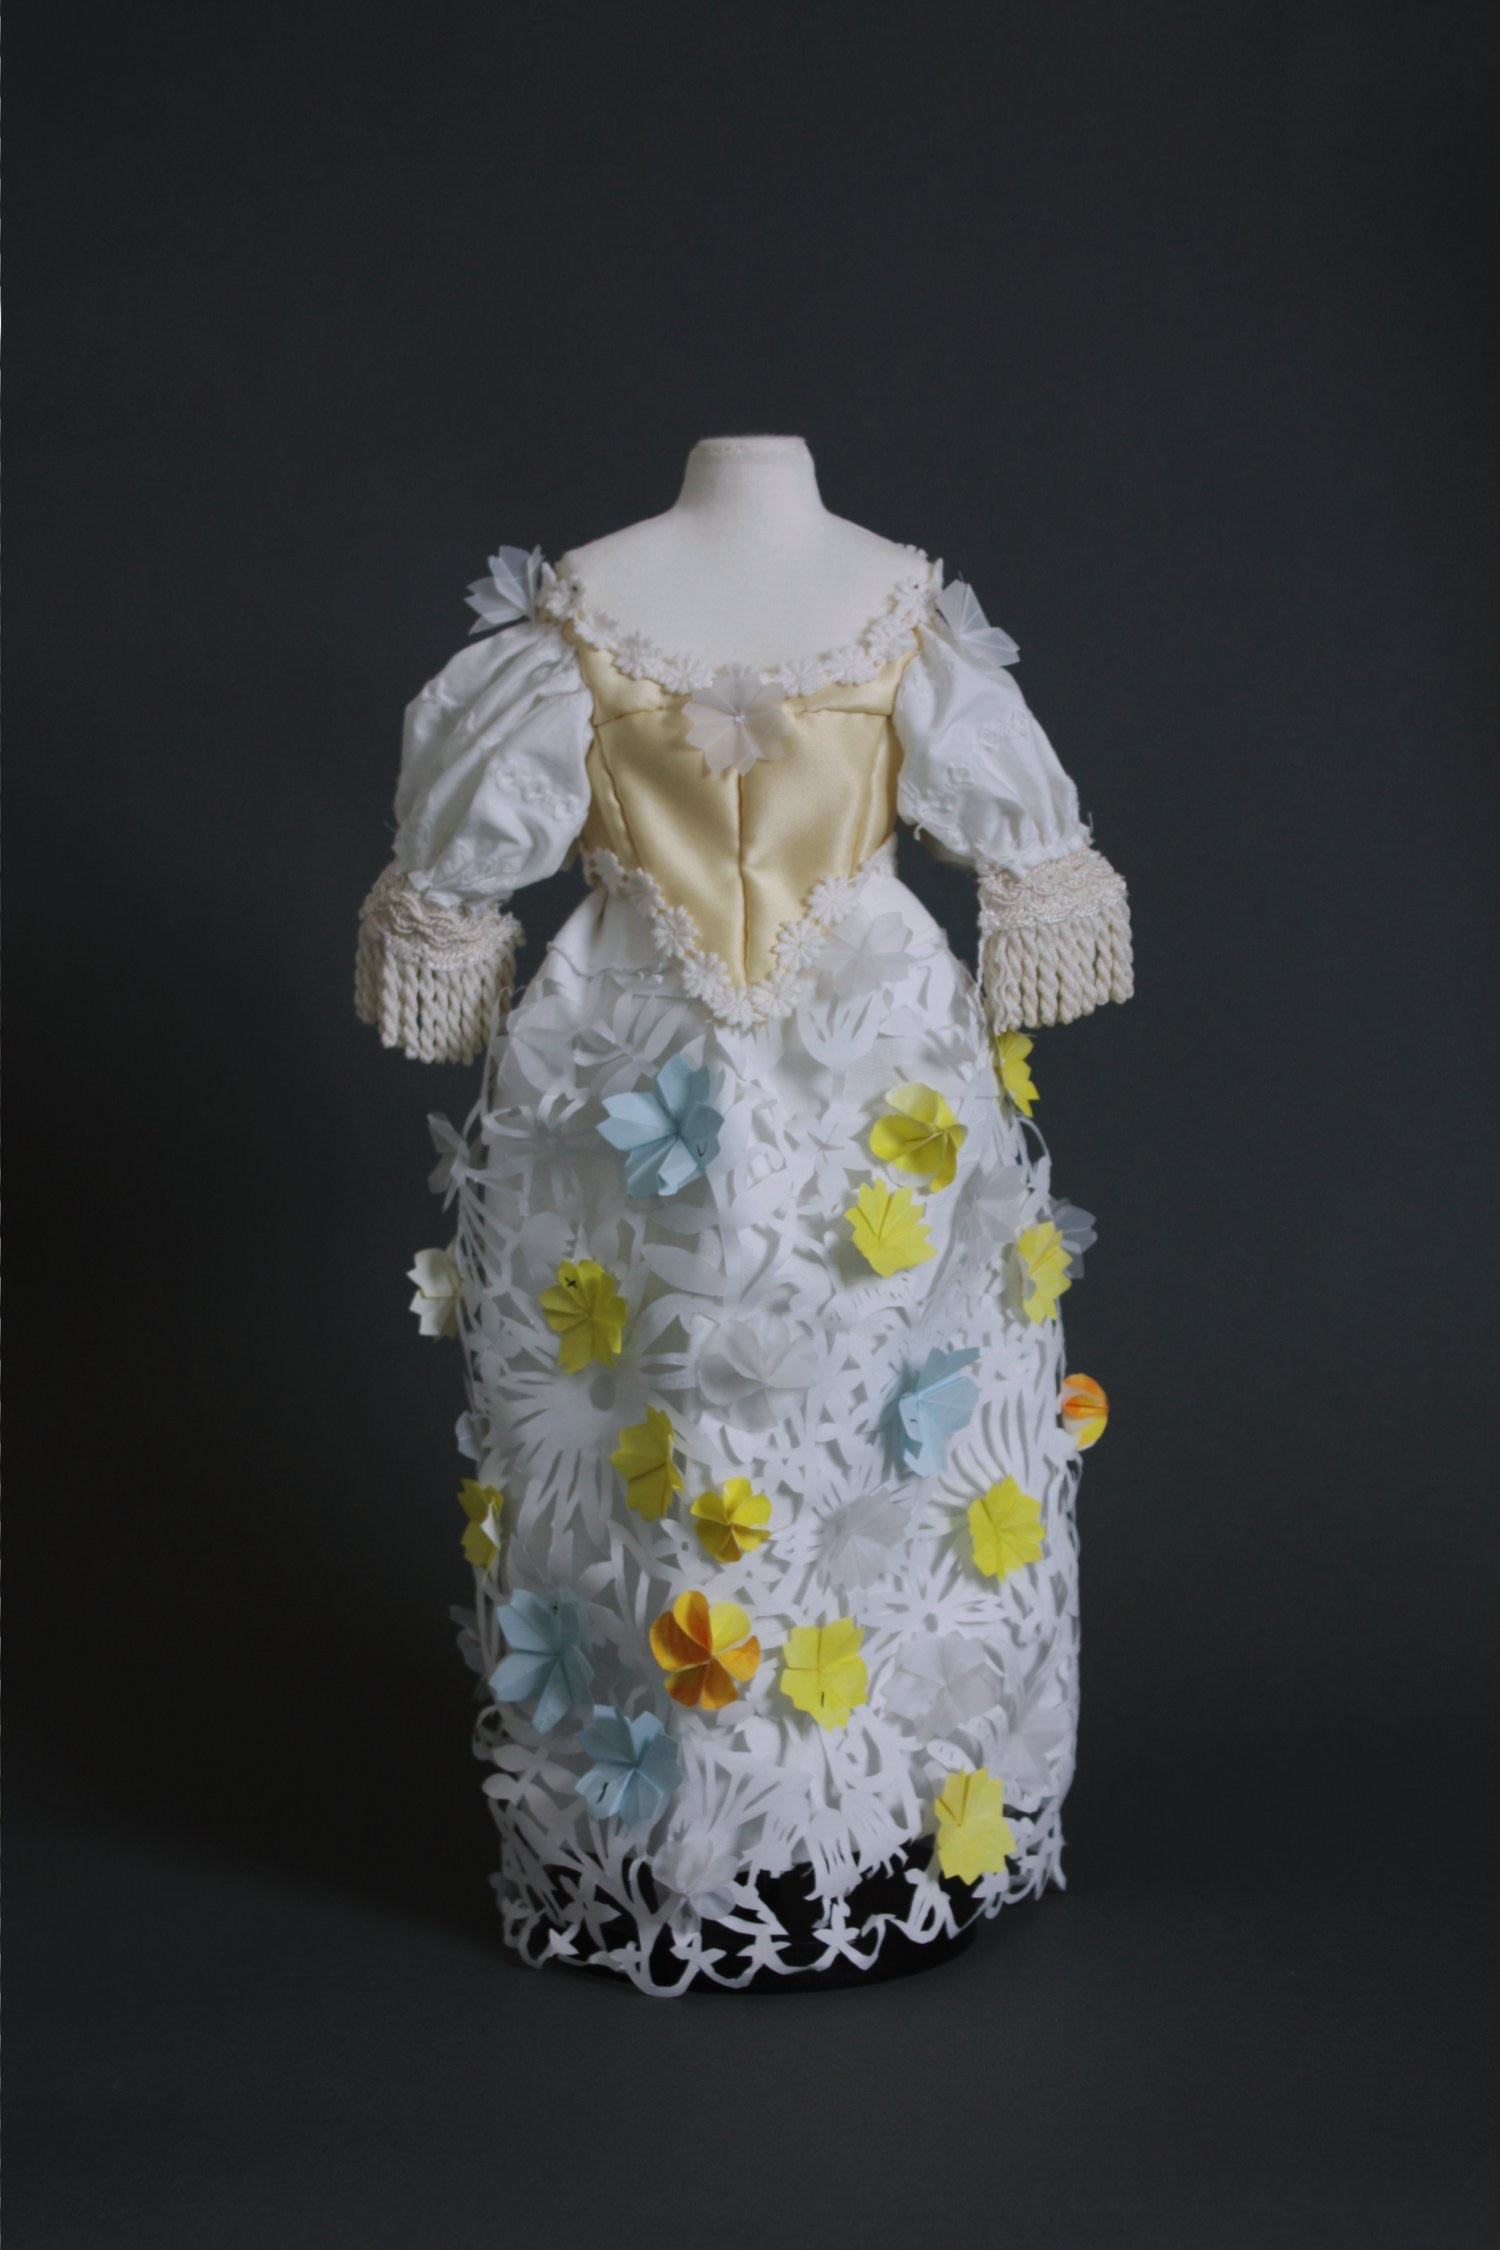
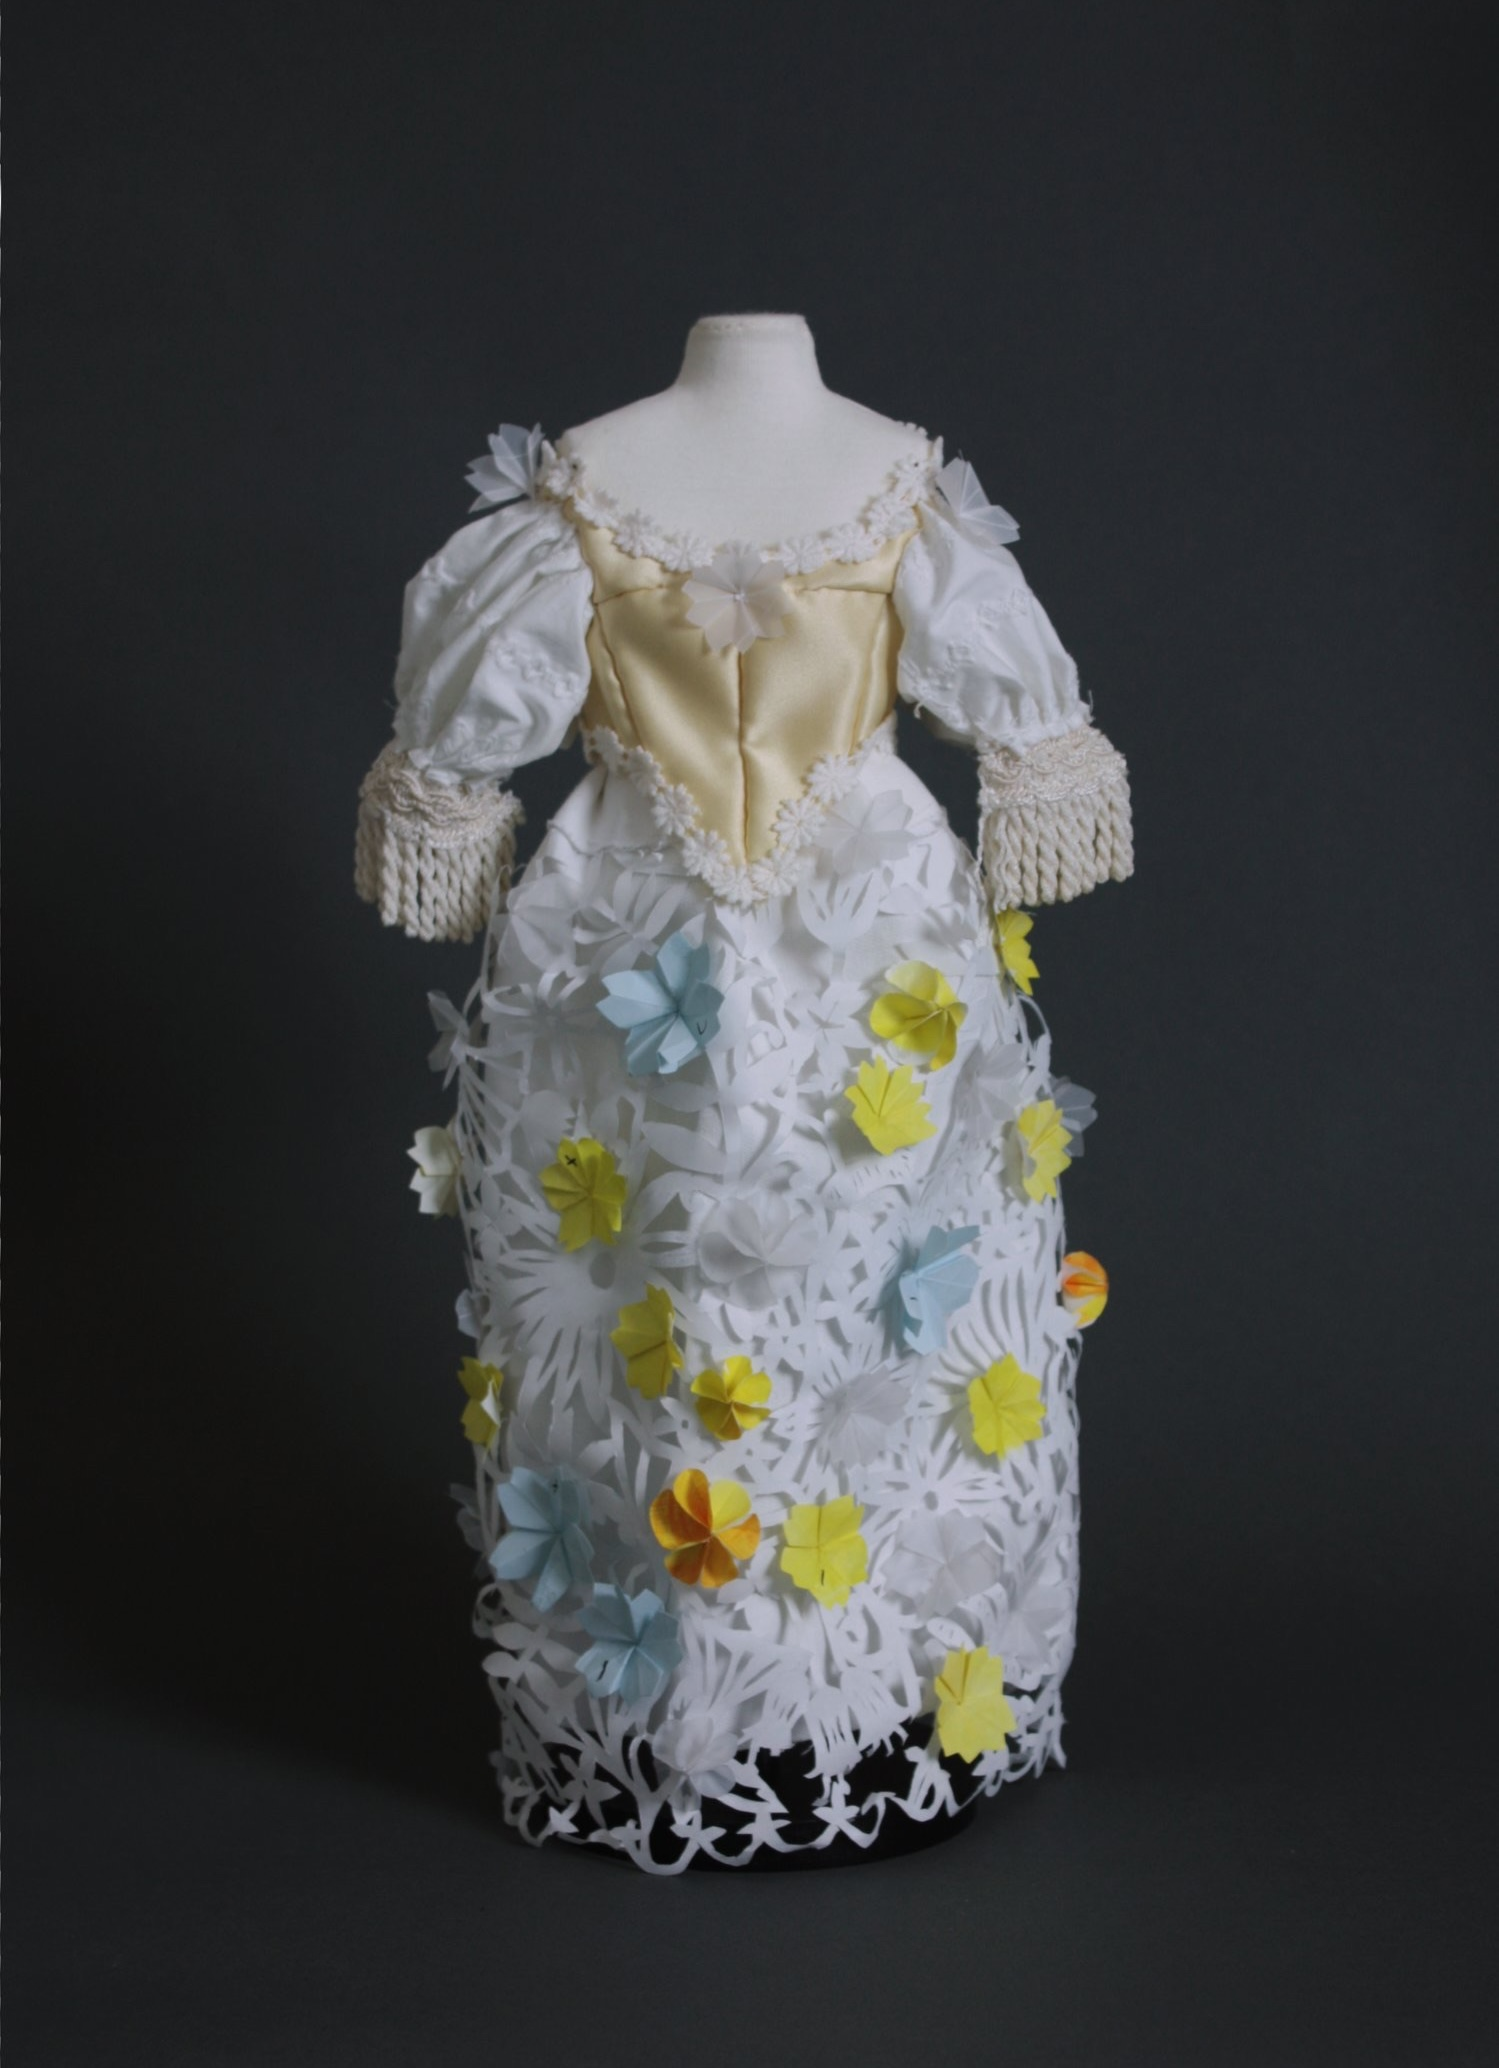
Update book link and refine thumbtail

Changed region(s): [[0.2148, 0.1238, 0.7672, 0.9284]]

diff --git a/index.html b/index.html
@@ -424,7 +424,6 @@
                                 >
                             </div>
                         </a>
-                        <!-- Get the full book <a href="file/Uniformed_in_the_Air,Female_Flight_Attendants_Costumes_And_Representation.pdf">here</a> -->
                     </div>
                 </div>
                 <div class="overlay-effect effects clearfix">
@@ -882,7 +881,7 @@
                                 >
                             </div>
                         </a>
-                        <!-- Get the full book <a href="file/Uniformed_in_the_Air,Female_Flight_Attendants_Costumes_And_Representation.pdf">here</a> -->
+                        Get the full book <a href="file/Uniformed_in_the_Air,Female_Flight_Attendants_Costumes_And_Representation.pdf">here</a>
                     </div>
                 </div>
                 <div class="overlay-effect effects clearfix">
